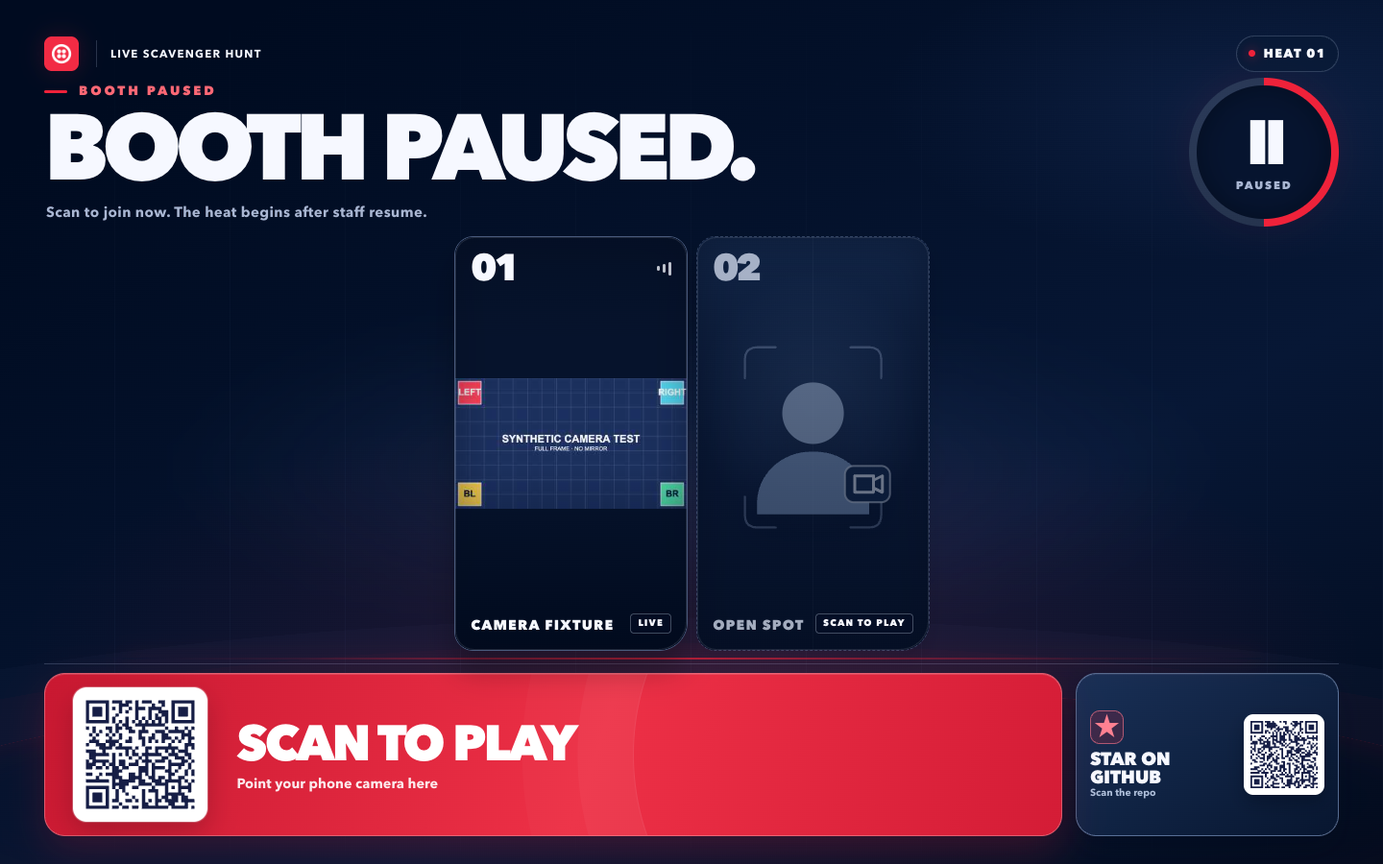
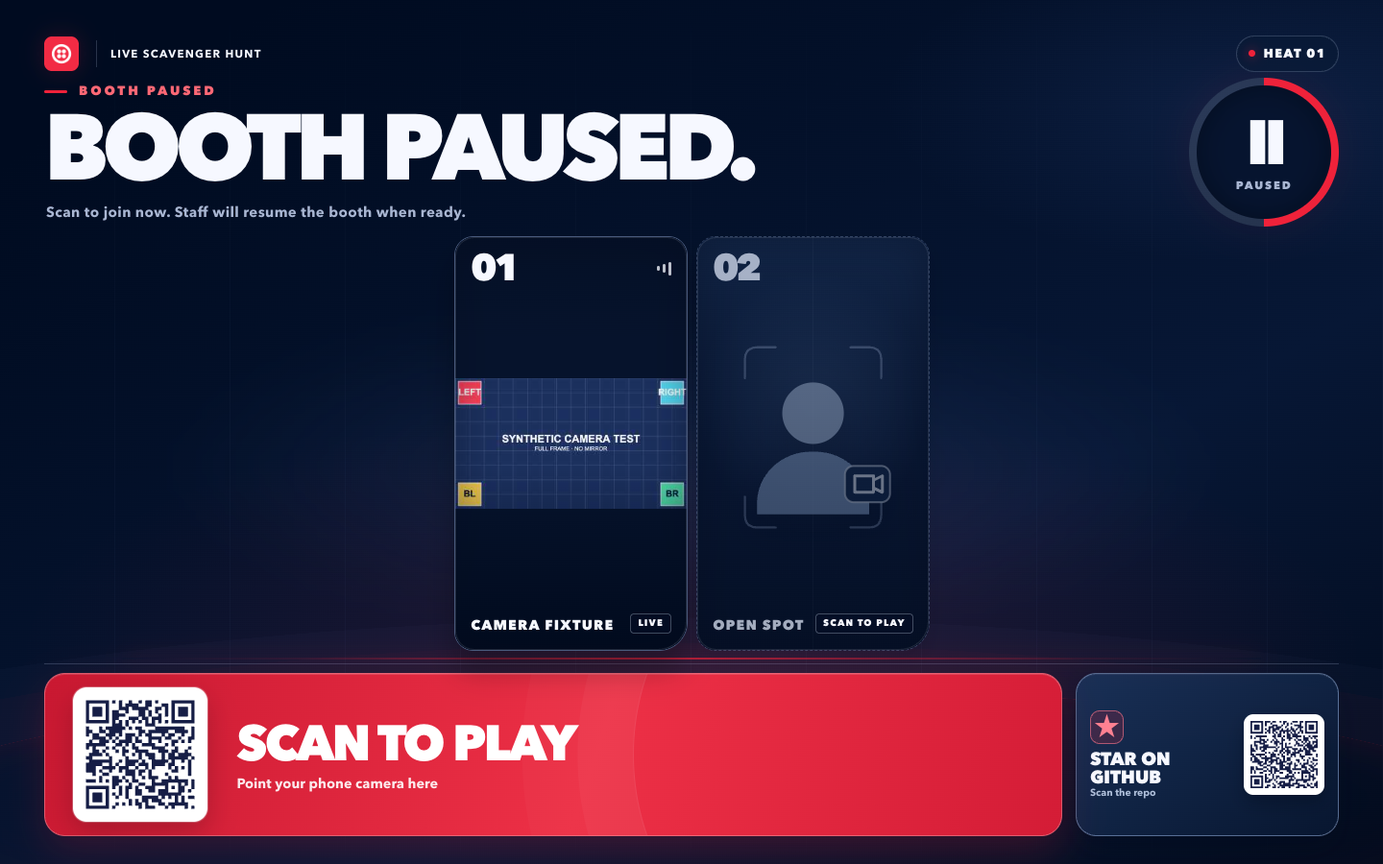
Prefer phone evidence and clarify paused booth controls

Changed region(s): [[0.0625, 0.8089, 0.1562, 0.9333], [0.125, 0.2178, 0.3438, 0.2489], [0.9062, 0.84, 0.9688, 0.9333]]

diff --git a/app/public/operator.js b/app/public/operator.js
@@ -33,7 +33,6 @@ let preflight = [];
 let mediaMode = null;
 let stream = null;
 let clockOffset = 0;
-let frozenSeconds = null;
 let lastHeat = null;
 let selectedWinners = new Set();
 let selectedPastHeatId = null;
@@ -1077,9 +1076,12 @@ function renderReady() {
   $("start-rule").textContent = startNames[committed.startMode] || "Flexible start";
   $("minimum-rule").textContent = "Min " + committed.minPlayers + (runtime.queuedCount ? " · " + runtime.queuedCount + " next" : "");
   $("judge-policy-label").textContent = committed.judgePolicy === "manual" ? "Manual judging" : committed.judgePolicy === "operator-confirm" ? "Confirm to award" : "Override enabled";
-  const canStart = runtime.phase === "lobby" && Number(runtime.readyCount || 0) >= committed.minPlayers;
+  const canStart = runtime.phase === "lobby" && !runtime.paused && Number(runtime.readyCount || 0) >= committed.minPlayers;
   $("start-button").disabled = !canStart || commandBusy;
-  $("start-button").textContent = canStart ? "Start heat" : Number(runtime.readyCount || 0) < committed.minPlayers && runtime.phase === "lobby" ? "Need " + committed.minPlayers + " ready" : "Heat in progress";
+  $("start-button").textContent = runtime.phase === "lobby" && runtime.paused
+    ? "Resume to start"
+    : canStart ? "Start heat" : Number(runtime.readyCount || 0) < committed.minPlayers && runtime.phase === "lobby" ? "Need " + committed.minPlayers + " ready" : "Heat in progress";
+  $("start-button").title = runtime.phase === "lobby" && runtime.paused ? "Resume the booth before starting this heat." : "";
   $("pause-button").textContent = runtime.paused ? "Resume" : "Pause";
   $("pause-button").disabled = commandBusy;
 }
@@ -1282,25 +1284,26 @@ function clockDetails() {
     label = "Results";
   }
   if (runtime.paused) {
-    if (frozenSeconds == null) {
-      const phaseDeadline = { lobby: "readyDeadline", countdown: "countdownEndsAt", hunt: "roundEndsAt", review: "reviewEndsAt", result: "resultEndsAt" }[phase];
-      const serverFrozen = typeof runtime.pauseRemaining === "object" && runtime.pauseRemaining !== null
-        ? runtime.pauseRemaining[phaseDeadline]
-        : runtime.pauseRemaining ?? runtime.remainingSeconds ?? runtime.pauseRemainingSeconds;
-      const numeric = Number(serverFrozen);
-      frozenSeconds = serverFrozen != null && Number.isFinite(numeric) ? (numeric > 180 ? numeric / 1000 : numeric) : seconds;
-    }
-    seconds = frozenSeconds;
+    const phaseDeadline = { lobby: "readyDeadline", countdown: "countdownEndsAt", hunt: "roundEndsAt", review: "reviewEndsAt", result: "resultEndsAt" }[phase];
+    const structuredPause = typeof runtime.pauseRemaining === "object" && runtime.pauseRemaining !== null;
+    const serverFrozen = structuredPause
+      ? runtime.pauseRemaining[phaseDeadline]
+      : runtime.pauseRemaining ?? runtime.remainingSeconds ?? runtime.pauseRemainingSeconds;
+    const numeric = Number(serverFrozen);
+    if (serverFrozen != null && Number.isFinite(numeric)) seconds = (structuredPause || numeric > 180) ? numeric / 1000 : numeric;
+    else if (phase === "lobby") seconds = null;
     label = "Paused";
-  } else frozenSeconds = null;
-  return { seconds: Math.max(0, Math.ceil(seconds ?? total)), total: Math.max(1, total), label };
+  }
+  const waitingForMinimum = runtime.paused && phase === "lobby" && seconds == null;
+  return { seconds: waitingForMinimum ? null : Math.max(0, Math.ceil(seconds ?? total)), total: Math.max(1, total), label };
 }
 function renderClock() {
   if (!runtime || !committed) return;
   const { seconds, total, label } = clockDetails();
-  $("stage-time").textContent = String(seconds).padStart(2, "0");
-  $("dial").style.setProperty("--progress", String(Math.max(0, Math.min(1, seconds / total))));
+  $("stage-time").textContent = seconds == null ? "—" : String(seconds).padStart(2, "0");
+  $("dial").style.setProperty("--progress", String(seconds == null ? 0 : Math.max(0, Math.min(1, seconds / total))));
   $("dial").querySelector(".dial-label").textContent = label;
+  $("dial").querySelector(".dial-unit").textContent = seconds == null ? "not started" : "seconds";
 }
 function renderRun() {
   if (!runtime || !committed) return;

diff --git a/app/public/vote.js b/app/public/vote.js
@@ -423,9 +423,10 @@ function applyPayload(payload) {
   if (!payload || typeof payload !== "object") return;
   if (payload.event) state.event = payload.event;
   const priorWindow = state.game?.vote?.id;
+  const wasPaused = Boolean(state.game?.paused);
   if (payload.state) state.game = payload.state;
   else if (payload.phase) state.game = payload;
-  if (state.game?.vote?.id !== priorWindow) state.error = "";
+  if (state.game?.vote?.id !== priorWindow || (wasPaused && !state.game?.paused)) state.error = "";
   if (payload.serverTime != null) {
     const serverTime = toMillis(payload.serverTime);
     if (serverTime) state.serverOffset = serverTime - Date.now();
@@ -433,17 +434,19 @@ function applyPayload(payload) {
   if (state.game) { recordVisit(); render(); setConnection("ARENA LIVE", "online"); }
 }
 async function refresh() {
-  if (!slug) { $("closed-title").textContent = "Event link missing"; $("closed-detail").textContent = "Scan the QR code at the arena to open this event’s ballot."; setConnection("LINK NEEDED", "offline"); return; }
+  if (!slug) { $("closed-title").textContent = "Event link missing"; $("closed-detail").textContent = "Scan the QR code at the arena to open this event’s ballot."; setConnection("LINK NEEDED", "offline"); return false; }
   try {
     const response = await fetch(`/api/e/${encodeURIComponent(slug)}`, { credentials: "same-origin", cache: "no-store" });
     if (!response.ok) throw new Error(response.status === 404 ? "Event not found" : `Connection failed (${response.status})`);
     applyPayload(await response.json());
+    return true;
   } catch (error) {
     setConnection("RECONNECTING", "offline");
     if (!state.game) {
       $("closed-title").textContent = "Arena connection lost";
       $("closed-detail").textContent = error.message || "Trying to reconnect…";
     }
+    return false;
   }
 }
 function connectStream() {
@@ -469,10 +472,16 @@ async function submitVote(choice) {
     if (response.status === 409) {
       const closed = /clos|expir|window/i.test(String(payload.code || payload.error || ""));
       if (closed) {
-        state.error = "This ballot just closed.";
-        if (state.game?.vote?.id === vote.id) state.game.vote.status = "closed";
+        const refreshed = await refresh();
+        const sameOpenBallot = state.game?.vote?.id === vote.id && state.game.vote.status === "open";
+        const nextBallotOpened = Boolean(state.game?.vote?.id && state.game.vote.id !== vote.id);
+        state.error = !refreshed ? "Vote not sent. Check your connection and try again."
+          : nextBallotOpened ? ""
+          : sameOpenBallot
+            ? state.game.paused ? "Voting paused. Try again when staff resume." : "Voting is open. Tap again to cast your vote."
+            : "This ballot just closed.";
       } else state.blockedWindowId = vote.id;
-      refresh();
+      if (!closed) void refresh();
     } else if (!response.ok) throw new Error(payload.error || `Vote could not be sent (${response.status})`);
     else {
       saveChoice(vote.id, choice);

diff --git a/app/public/player.js b/app/public/player.js
@@ -566,12 +566,12 @@ async function cameraDimensions(video) {
 function portraitStream(raw, video) {
   if (video.videoWidth <= video.videoHeight) return { stream: raw, canvas: null, timer: null };
   if (!HTMLCanvasElement.prototype.captureStream)
-    throw new Error('This browser cannot publish portrait video. Update your browser or try another phone.');
+    return { stream: raw, canvas: null, timer: null };
   const canvas = document.createElement('canvas');
   canvas.width = 540;
   canvas.height = 960;
   const context = canvas.getContext('2d', { alpha: false });
-  if (!context) throw new Error('Camera preview could not start. Try again.');
+  if (!context) return { stream: raw, canvas: null, timer: null };
   context.fillStyle = '#06132c';
   const draw = () => {
     if (video.readyState < HTMLMediaElement.HAVE_CURRENT_DATA) return;
@@ -591,7 +591,7 @@ function portraitStream(raw, video) {
     return { stream: canvas.captureStream(24), canvas, timer };
   } catch {
     clearInterval(timer);
-    throw new Error('This browser cannot publish portrait video. Update your browser or try another phone.');
+    return { stream: raw, canvas: null, timer: null };
   }
 }
 

diff --git a/app/public/arena.js b/app/public/arena.js
@@ -156,7 +156,7 @@ function render() {
     $('eyebrow').textContent = 'Booth paused';
     setHeadline(currentPhase === 'lobby' ? 'BOOTH PAUSED.' : 'HEAT PAUSED.');
     $('subline').textContent = currentPhase === 'lobby'
-      ? 'Scan to join now. The heat begins after staff resume.'
+      ? 'Scan to join now. Staff will resume the booth when ready.'
       : 'Scan to join the next heat. Play resumes after staff return.';
   } else if (vote) {
     $('eyebrow').textContent = vote.type === 'creative' ? 'Audience vote' : 'Choose the next category';

diff --git a/docs/full-app-api.md b/docs/full-app-api.md
@@ -27,7 +27,7 @@ New events default to a 45-second hunt, 60-second seeded creative prompts, and A
 | `POST /api/e/:slug/heartbeat` | Player bearer token | `{player,state}` with refreshed private `queuePosition`. The player page sends this about every five seconds while open. |
 | `POST /api/e/:slug/leave` | Player bearer token | `{state}`; marks the session left and releases the slot. In a lobby, the oldest queued visitor takes the vacancy. The player page also stops its local camera. |
 | `GET /api/e/:slug/media-token` | Player bearer token | `{mode,token?,roomName?,identity?}`. Twilio tokens are room-scoped. |
-| `POST /api/e/:slug/frame` | Player bearer token, `image/jpeg` body, max 150 KB | `{ok:true}`; rehearsal frames and evidence only, rate-limited. A live Twilio player whose signed Video callback marks their media disconnected receives HTTP `409`, `code:"media_required"`; the server will not store that frame for judging. |
+| `POST /api/e/:slug/frame` | Player bearer token, `image/jpeg` body, max 150 KB | `{ok:true}`; rehearsal frames and the phone's downscaled, uncropped browser frame for judging, rate-limited. Phone evidence gets the first 2.5 seconds after GO and remains preferred while fresh; authenticated wall evidence may judge if phone frames are missing or stale. A live Twilio player whose signed Video callback marks their media disconnected receives HTTP `409`, `code:"media_required"`; the server will not store that frame for judging. |
 | `POST /api/e/:slug/votes` | `{windowId,choice}`; anonymous voter cookie | `{accepted:true,vote}` or `409` duplicate/closed. An open ballot paused by staff returns `409` with `code:"vote_closed"` until resumed; its vote window is preserved. A vote never creates a lead. |
 | `POST /api/e/:slug/leads` | Player bearer token, `{intent:"guide"|"expert",fieldValues?:{[fieldId]:string}}` | HTTP `201` with `{leadId,deliveryStatus}`. An at-join lead is marked with the requested follow-up without asking again. An after-play player voluntarily submits configured fields on the first request, creating a lead with a field snapshot. A later compatible guide/expert request can omit `fieldValues` to reuse those details; a guide still needs an email. Repeating the same request is idempotent. A guide requested for the same event and email within 24 hours is saved with `deliveryStatus:"recent-request"` and does not create another email job. Finished players may submit after the arena advances to a later heat while their player token remains valid. New `marketingOptIn:true` submissions are rejected; legacy `false` is accepted. |
 | `POST /api/e/:slug/spectator-leads` | Anonymous browser cookie, `{intent:"guide"|"expert",fieldValues:{[fieldId]:string}}` | HTTP `201` with `{leadId,deliveryStatus}`. The spectator form is voluntary and needs no player token; it is rate limited and identical submissions are deduplicated by browser session, intent, contact, and form answers within a day. Guide email also has a 24-hour per-event recipient cooldown independent of the browser cookie. Voting alone never creates a lead. New `marketingOptIn:true` submissions are rejected; legacy `false` is accepted. |
@@ -66,7 +66,7 @@ Local usernames are normalized to lowercase and must be 3–80 characters using 
 | `PUT /api/admin/e/:slug` | admin | `{event,expectedRevision}` → `{event}`; revisioned save. `event.prompts[].priority` is `standard` or `low`; omitted priority defaults simple color-only clues to `low` and other clues to `standard`. `event.leadCapture.timing` is `after-play` or `join`; `event.cta.primary` is `github`, `guide`, or `expert`. Selecting a disabled lead action as primary is rejected. Reducing lobby capacity moves excess players to the next-heat queue. |
 | `POST /api/admin/e/:slug/command` | operator | `{type,payload}` → `{state}`. Types: `start`, `pause`, `resume`, `queuePrompt`, `kickPlayer`, `proposeWinner`, `award`, `noMatch`, `correctHeat`, `nextHeat`, `reset`, `openVote`, `closeVote`, `selectCategory`. Awards include an array of player IDs and a reason. `correctHeat` takes `{heatId,winners,reason}` for a completed heat; an empty array records no match. |
 | `GET /api/admin/e/:slug/media-token?role=wall` | operator | Twilio subscriber token or rehearsal mode. |
-| `POST /api/admin/e/:slug/evidence` | operator | `{playerId,imageBase64}` → `{candidate,status,errorCode?,error?,reason?}`; server stamps receipt before judging. A disconnected live Video player is ineligible for a winning judgment. AI errors set operator-only `state.judgeNotice`, which holds automatic review until staff award a winner, tie, or no match. |
+| `POST /api/admin/e/:slug/evidence` | operator | `{playerId,imageBase64}` → `{candidate,status,errorCode?,error?,reason?}`; server stamps receipt before judging. The live wall submits its published video frame here as a fallback when phone evidence is absent or stale; a fresh phone frame takes priority even over a wall review still in flight. A disconnected live Video player is ineligible for a winning judgment. AI errors set operator-only `state.judgeNotice`, which holds automatic review until staff award a winner, tie, or no match. |
 | `GET /api/admin/e/:slug/preflight` | operator | `{checks:[{name,status,detail}]}` for Video, AI, messaging, Segment, SendGrid, HTTPS. |
 | `GET /api/admin/report?event=all|:slug&from=YYYY-MM-DD&to=YYYY-MM-DD` | admin | `{summary,activity,leads,expertQueue,events}`; private lead data and pending expert follow-ups. |
 | `GET /api/admin/export?kind=leads|events&event=all|:slug&from=...&to=...` | admin | UTF-8 CSV. |
@@ -79,4 +79,4 @@ The operator state also includes a five-heat `recentHeats` list with prompt, pla
 
 The private report summary includes `joinSessions` and `totalParticipants`, both counting entries including replay; `uniquePlayers` deduplicates by player ID. `uniqueVisitorSessions` counts distinct browser sessions where IDs exist, while `unattributedJoinSessions` counts older joins without one. Browser sessions are a device/browser measure, not verified unique people. The summary also includes `leads`, separate `guideRequests` and `expertRequests`, `pendingExpertRequests`, `guideAccepted`, `guideDelivered`, `guideDeliveryFailures`, historical `marketingOptIns`, `kickedPlayers`, `timedOutPlayers`, `playerLeaves`, `twilioProductLinkClicksByProduct: {video,messaging,segment}`, and `githubRepoClicksBySource: {phone,spectator,arenaQr,arenaLink}`. New forms cannot create marketing opt-in. A lead row contains the saved field values and field-definition snapshot, `deliveryStatus`, `expertStatus`, and guide/expert request timestamps. The lead CSV includes those status and request-date columns. Lead rows filter on capture date; guide and expert counts filter on request timestamps. `expertQueue` contains pending expert requests regardless of date range until staff resolves them; the event activity export includes later request actions even when the lead was captured outside the range. Activity counters use the requested event/date filter. Historical GitHub clicks without a source count as `phone`. Outbound fields count clicks or scans through the redirect, not verified destination page loads or GitHub stars.
 
-Twilio signed webhooks live at `/webhooks/twilio/messaging` and `/webhooks/twilio/video`. They validate the exact public URL and `X-Twilio-Signature`, then deduplicate message/event IDs before changing state or metrics. `POST /webhooks/sendgrid/events` receives a JSON array of SendGrid delivery events. It requires a valid `X-Twilio-Email-Event-Webhook-Signature` and timestamp verified with `SENDGRID_EVENT_WEBHOOK_PUBLIC_KEY`, deduplicates `sg_event_id`, and correlates non-PII `lsh_job_id` custom arguments with saved guide delivery jobs. Mail Send `202` records `accepted`; a signed callback can advance the lead to `processed`, `deferred`, `delivered`, `bounced`, or `dropped`. Definite HTTP 429 send failures retry with backoff. HTTP 503 and uncertain network outcomes become `needs-review` without automatic retry to avoid a possible duplicate. Without a signed webhook, `accepted` is not proof of delivery.
+Twilio signed webhooks live at `/webhooks/twilio/messaging` and `/webhooks/twilio/video`. They validate the exact public URL and `X-Twilio-Signature`, then deduplicate message/event IDs before changing state or metrics. An SMS or WhatsApp ballot message arriving during a paused open vote receives a TwiML reply saying the vote was not counted and asking the visitor to resend after staff resume; a genuinely closed ballot gets a different reply. `POST /webhooks/sendgrid/events` receives a JSON array of SendGrid delivery events. It requires a valid `X-Twilio-Email-Event-Webhook-Signature` and timestamp verified with `SENDGRID_EVENT_WEBHOOK_PUBLIC_KEY`, deduplicates `sg_event_id`, and correlates non-PII `lsh_job_id` custom arguments with saved guide delivery jobs. Mail Send `202` records `accepted`; a signed callback can advance the lead to `processed`, `deferred`, `delivered`, `bounced`, or `dropped`. Definite HTTP 429 send failures retry with backoff. HTTP 503 and uncertain network outcomes become `needs-review` without automatic retry to avoid a possible duplicate. Without a signed webhook, `accepted` is not proof of delivery.

diff --git a/README.md b/README.md
@@ -41,11 +41,11 @@ A live camera race that turns an expo booth into a moment the whole crowd can wa
 
 A visitor scans the arena's prominent **Scan to play** QR, enters a screen name, agrees to appear on the public display and have camera images checked for matches, and checks their camera. The consent screen explains that OpenAI may review brief images when AI judging is enabled. **Go live** reserves a spot only after the camera works. If access was denied, the phone shows where to allow it in the browser and a **Try camera again** button. A camera switch changes between front and rear cameras. Lead capture is configurable: the default asks for contact details only after someone voluntarily requests a guide or a Twilio expert; an admin can instead collect the configured fields at join or turn capture off. A visitor can choose **Watch and vote instead** without joining.
 
-The arena adjusts its portrait-card layout to the number of players. The phone requests portrait capture without forcing a crop; if a browser supplies a landscape track and supports canvas capture, the app letterboxes its full frame in a portrait stream for the phone and Twilio Video wall. Otherwise, the preview and arena tiles fit the browser's original frame within the portrait spot. Judging snapshots use the browser's original frame. The phone preview and wall use the same unmirrored left-to-right orientation, so printed words read correctly in both places. The clue stays sealed until the roster locks and the shared countdown reaches **GO**. Every screen uses the official Twilio bug mark for its browser icon.
+The arena adjusts its portrait-card layout to the number of players. The phone requests portrait capture without forcing a crop; if a browser supplies a landscape track and supports canvas capture, the app letterboxes its full frame in a portrait stream for the phone and Twilio Video wall. Otherwise, the preview and arena tiles fit the browser's original frame within the portrait spot. The phone submits an uncropped, downscaled camera frame for judging; in live Video mode, wall evidence is a fallback when phone frames are missing or stale. The phone preview and wall use the same unmirrored left-to-right orientation, so printed words read correctly in both places. The clue stays sealed until the roster locks and the shared countdown reaches **GO**. Every screen uses the official Twilio bug mark for its browser icon.
 
 When all configured player spots are occupied, or a heat has locked, a new visitor enters the next-heat waitlist with their camera off. Their phone shows a private, exact place in line and a capacity-based estimate in heats; the app does not promise a minute countdown because booth pauses and judging can vary. The oldest waiting visitor takes the next open lobby spot when someone leaves, is removed, times out, or an admin increases capacity. New arrivals and returning players cannot jump ahead. At the next heat, the oldest queued visitors get the available spots and reconnect their cameras. After a result, a player can choose **Play next heat** without repeating the join form; **Leave game** ends their session.
 
-If staff pause an open lobby, visitors can still join, connect their camera, and become ready. The arena keeps **Scan to play** visible even if a ballot was open; the phone says **Booth paused**. The join window begins or resumes only when staff resume the booth. A visitor who joins during a paused countdown or hunt waits in the next-heat queue. Paused phone screens show the hold without a misleading GO or expired round clock. The normal inactivity check still asks players to confirm their place during a long pause. Staff still choose when to start a heat in Operator start mode.
+If staff pause an open lobby, visitors can still join, connect their camera, and become ready. The arena keeps **Scan to play** visible even if a ballot was open; the phone says **Booth paused**. The join window begins or resumes only when staff resume the booth. A visitor who joins during a paused countdown or hunt waits in the next-heat queue. Paused phone screens show the hold without a misleading GO or expired round clock. The normal inactivity check still asks players to confirm their place during a long pause. The operator desk shows the frozen join clock and disables **Start heat** until staff resume; Operator start mode still needs a manual start afterward.
 
 The next clue is chosen randomly among the least-played enabled prompts in its priority tier, avoiding a repeat within that tier until its clues have caught up. It also avoids immediately repeating the last clue when another equally played choice exists. An operator can choose the next clue, and an audience category vote can narrow the draw. The standard hunt now lasts **45 seconds**, with **60 seconds** for seeded creative clues; admins can change the event timer or a prompt's timer. The one-time upgrade applies these defaults only to untouched legacy events; customized timers stay saved. Everyone races to show the requested color, object, shape, printed tech word, or creative find. Seeded and newly added prompts default to AI-assisted judging. The upgrade switches prompts in untouched legacy events to AI-assisted judging; events already edited by an admin keep their saved judging choices. An admin can instead choose the built-in color detector, an audience vote, or booth-operator judgment. The operator can award one winner, several winners in a tie, or no match. The result lands on the arena **and** each player's phone.
 
@@ -55,7 +55,7 @@ Admins set each clue to **Standard** or **Low** rotation priority under **Operat
 
 <p align="center"><em>Local operator preview with Standard prompts ahead of Low color prompts and the saved priority control.</em></p>
 
-Spectators can take part through a web ballot without providing player details. With configured senders, SMS or WhatsApp ballots can steer the next challenge category or vote on a creative round. After playing, visitors can follow a visual phone-to-arena product story, open official Twilio pages for each featured product, and **star the source on GitHub** as the default main action. An admin can make the build guide or Twilio expert the main action instead. Players and web spectators can voluntarily request a guide or conversation through the configured contact form; those requests do not subscribe visitors to product updates. A small **Star on GitHub** card sits beside the arena's larger play or vote QR; booth-sized displays show a second QR in the card. The repo link also stays in the attendee phone footer throughout the journey and appears on the spectator ballot.
+Spectators can take part through a web ballot without providing player details. With configured senders, SMS or WhatsApp ballots can steer the next challenge category or vote on a creative round. A paused ballot holds its remaining time; SMS and WhatsApp voters are told to resend if their message arrives during the hold. After playing, visitors can follow a visual phone-to-arena product story, open official Twilio pages for each featured product, and **star the source on GitHub** as the default main action. An admin can make the build guide or Twilio expert the main action instead. Players and web spectators can voluntarily request a guide or conversation through the configured contact form; those requests do not subscribe visitors to product updates. A small **Star on GitHub** card sits beside the arena's larger play or vote QR; booth-sized displays show a second QR in the card. The repo link also stays in the attendee phone footer throughout the journey and appears on the spectator ballot.
 
 | Booth moment | What the app does |
 | --- | --- |
@@ -175,6 +175,11 @@ A phone left idle in the queue, lobby, paused heat, or operator review asks afte
 
 <p align="center"><img src="docs/visuals/live-scavenger-hunt-phone-next-heat.png" alt="Visual preview of the next-heat waiting screen with an illustrated player spot and camera-off message" width="300"></p>
 <p align="center"><em>Next-heat visual preview. The portrait is an illustration; no live camera is shown.</em></p>
+
+The operator desk makes a paused booth explicit: **Resume** stays available, **Resume to start** is disabled, and a join window that has not opened shows **not started**.
+
+<p align="center"><img src="docs/visuals/live-scavenger-hunt-operator-paused-fixture.png" alt="Local operator visual preview of a paused booth with Resume enabled, Resume to start disabled, and a join clock marked not started" width="900"></p>
+<p align="center"><em>Local operator visual preview with no attendee feeds, lead data, or live event activity.</em></p>
 
 Staff can open **Manage players** in the operator view, choose a current or queued player, and confirm removal. Removal clears the slot, requests a Twilio Video disconnect when configured, invalidates that player session, and records a removal metric. The command reports whether the Video disconnect succeeded. This is session-level moderation: a person with a new browser session can scan again, so booth staff should monitor the arena.
 

diff --git a/docs/runbook.md b/docs/runbook.md
@@ -48,7 +48,7 @@ Rehearsal mode sends small JPEG snapshots over the local app connection. It prov
 
 On a player phone, the join form checks a 2–20 character screen name and consent to appear on the public display and have camera images checked for matches. It explains that OpenAI may review brief images when AI judging is enabled. The visitor checks the camera **before** the phone sends `/join`, so denying camera permission does not reserve a player spot. The phone shows a retry button and browser site-settings guidance when access is blocked; its camera switch can select the rear lens. **Go live** reserves a spot and connects it to the arena. If all spots are full, the visitor joins the waitlist and the phone turns the camera off until a place opens. Admins can optionally collect configured contact fields at join, but the default is to ask only after someone voluntarily requests a guide or expert. Invalid fields produce an inline prompt and arena updates preserve an in-progress form. A visitor can choose **Watch and vote instead** before joining without sharing player details.
 
-For a camera denial at the booth, have the visitor allow Camera in that site's address-bar controls. On iPhone Safari, use the address-bar page menu → **Settings for This Website** → **Camera** → **Allow**; on iPhone Chrome, check Chrome's Camera permission in iPhone Settings. Return to the game and tap **Try camera again**. If the camera stops mid-heat, **Reconnect camera** restores the connection; switching front/rear cameras briefly reconnects Video. The phone and wall show the same unmirrored camera orientation. Portrait camera tracks fill the spot as their browser frame allows; landscape tracks are letterboxed into a portrait publishing stream when canvas capture is available, preserving the full browser frame. Rehearsal and judging JPEGs use the original camera frame. The [synthetic phone](visuals/live-scavenger-hunt-camera-landscape-fixture-phone.png) and [arena](visuals/live-scavenger-hunt-camera-landscape-fixture-arena.png) visual previews show the full wide frame with left/right and corner markers; these are local test patterns, not attendee feeds. Do the permission, printed-word orientation, and camera framing drills with the browsers and phones expected at the venue.
+For a camera denial at the booth, have the visitor allow Camera in that site's address-bar controls. On iPhone Safari, use the address-bar page menu → **Settings for This Website** → **Camera** → **Allow**; on iPhone Chrome, check Chrome's Camera permission in iPhone Settings. Return to the game and tap **Try camera again**. If the camera stops mid-heat, **Reconnect camera** restores the connection; switching front/rear cameras briefly reconnects Video. The phone and wall show the same unmirrored camera orientation. Portrait camera tracks fill the spot as their browser frame allows; landscape tracks are letterboxed into a portrait publishing stream when canvas capture is available, preserving the full browser frame. Phone JPEGs downscale, but do not crop, the browser frame for rehearsal and preferred judging evidence. In live mode, the authenticated wall can submit its published video frame for judging after a short grace period if phone frames are missing or stale; connected Twilio media is still required. The transient operator frame cache can show the most recent phone or wall JPEG. The [synthetic phone](visuals/live-scavenger-hunt-camera-landscape-fixture-phone.png) and [arena](visuals/live-scavenger-hunt-camera-landscape-fixture-arena.png) visual previews show the full wide frame with left/right and corner markers; these are local test patterns, not attendee feeds. Do the permission, printed-word orientation, and camera framing drills with the browsers and phones expected at the venue.
 
 ## 3. Prepare each event
 
@@ -63,7 +63,7 @@ An admin creates an event in the control room. Each event has an immutable slug 
 
 For Flexible and After wait, the configured `joinSeconds` timer begins when the **minimum number of players is ready**, not when the first player joins. For example, with 2–6 players and a 30-second window, the second ready player opens 30 more seconds for others to join. If ready players fall below the minimum, that timer clears and starts again when the minimum is met. Reaching the maximum in Flexible mode starts immediately. The arena shows the ready count without a misleading `/6` denominator; its ring fills at the minimum, and the subline states how many more are needed or how long the room remains open. An operator may start a heat once the configured minimum is ready, regardless of the automatic rule. The clue is selected and sealed when the roster locks. The countdown does **not** expose it to the public API or pages; it appears at GO. The selected prompt and game rules are snapshotted for that heat, so later edits apply to later heats. Reducing capacity during a lobby moves excess slots into the next-heat queue. A joining visitor after lock also waits in that queue. The operator can pause/resume, queue an approved prompt, accept or replace a referee proposal, award one or multiple winners, choose no match, and advance or reset a heat. Recent completed heats remain available for winner, tie, or no-match corrections.
 
-If staff pause an open lobby, visitors can still join and become ready after their camera connects. The arena keeps **Scan to play** visible even when an audience ballot was open, and the phone shows **Booth paused** instead of an error. An open ballot stops accepting votes during the hold; it resumes with its remaining time, or a full window if staff opened it while paused. A join window that was already running keeps its remaining time; one first opened during the pause gets its full configured duration on resume. No heat starts while paused. A full Flexible or At capacity roster starts when staff resume if no ballot is open; Operator mode still needs a manual start. A visitor joining during a paused countdown, hunt, or review is placed in the next-heat queue. On the phone, paused countdown and hunt screens replace their clocks with a pause state so they never show **GO** or **00 SEC LEFT** during the hold.
+If staff pause an open lobby, visitors can still join and become ready after their camera connects. The arena keeps **Scan to play** visible even when an audience ballot was open, and the phone shows **Booth paused** instead of an error. An open ballot stops accepting votes during the hold; it resumes with its remaining time, or a full window if staff opened it while paused. Web voters see **Ballot on hold**; SMS and WhatsApp replies say the vote was not counted and should be resent after resume. A join window that was already running keeps its remaining time; one first opened during the pause gets its full configured duration on resume. The operator clock shows the frozen remaining join time, or **not started** if the minimum is not ready. The operator desk disables **Start heat** until staff choose **Resume**; the [local operator preview](visuals/live-scavenger-hunt-operator-paused-fixture.png) illustrates these controls without attendee data. No heat starts while paused. A full Flexible or At capacity roster starts when staff resume if no ballot is open; Operator mode still needs a manual start. A visitor joining during a paused countdown, hunt, or review is placed in the next-heat queue. On the phone, paused countdown and hunt screens replace their clocks with a pause state so they never show **GO** or **00 SEC LEFT** during the hold.
 
 A queued operator choice takes priority; otherwise the server draws randomly among the least-played enabled prompts in the selected priority tier. This avoids repeating a clue in that tier until its peers have caught up. The operator prompt deck and manual queue menu display Standard prompts before Low prompts while preserving saved order within each group; this display order does not affect the server draw. To move a clue, change **Rotation priority** under **Operator → Prompts** and choose **Save prompt**; the deck follows it to its new page. Automatic audience category ballots run after every other completed heat; the intervening heat uses a regular draw so categories outside the ballot can progress. A ballot offers categories eligible under the current priority cadence, and its winning category narrows the draw without bypassing that cadence. An operator can manually select a category or queue a clue to override it. When equally played alternatives exist, the draw avoids immediately repeating the last clue. An operator may intentionally queue a repeat.
 
